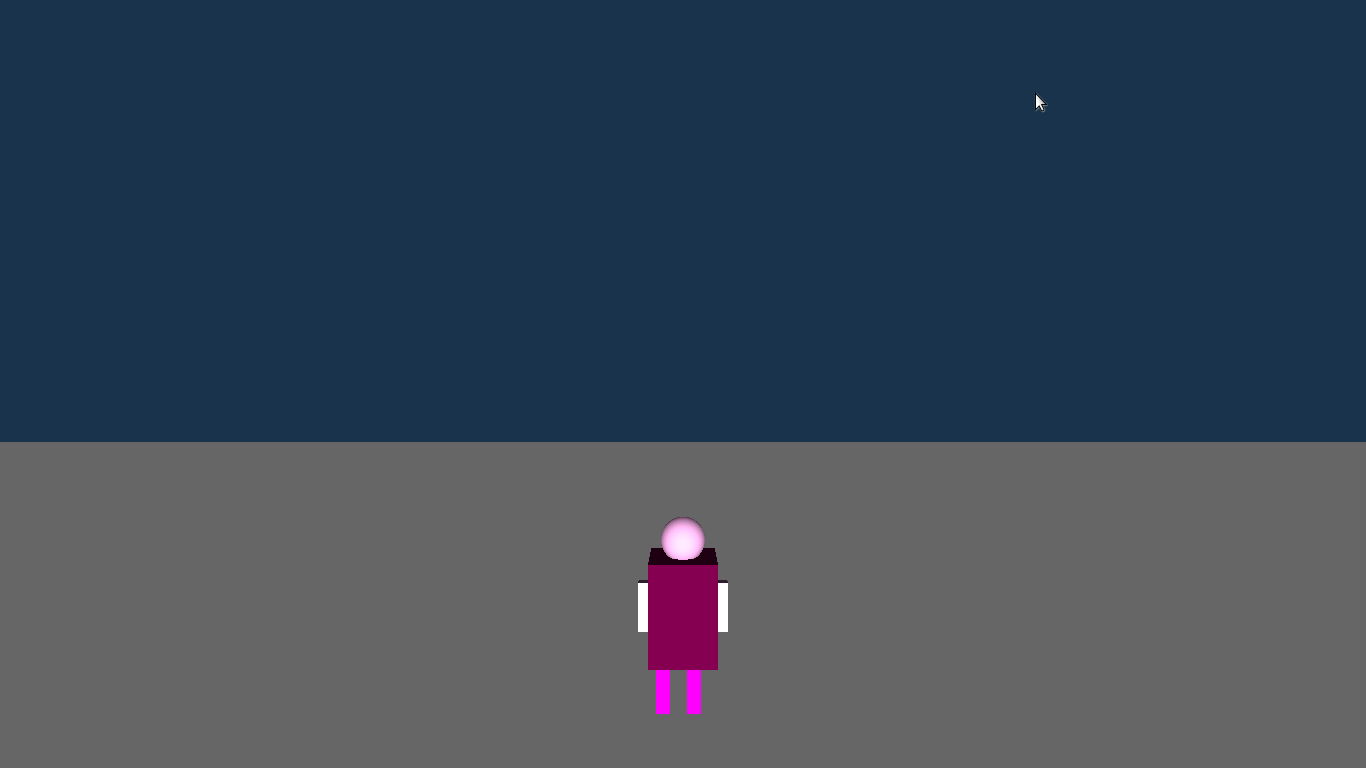
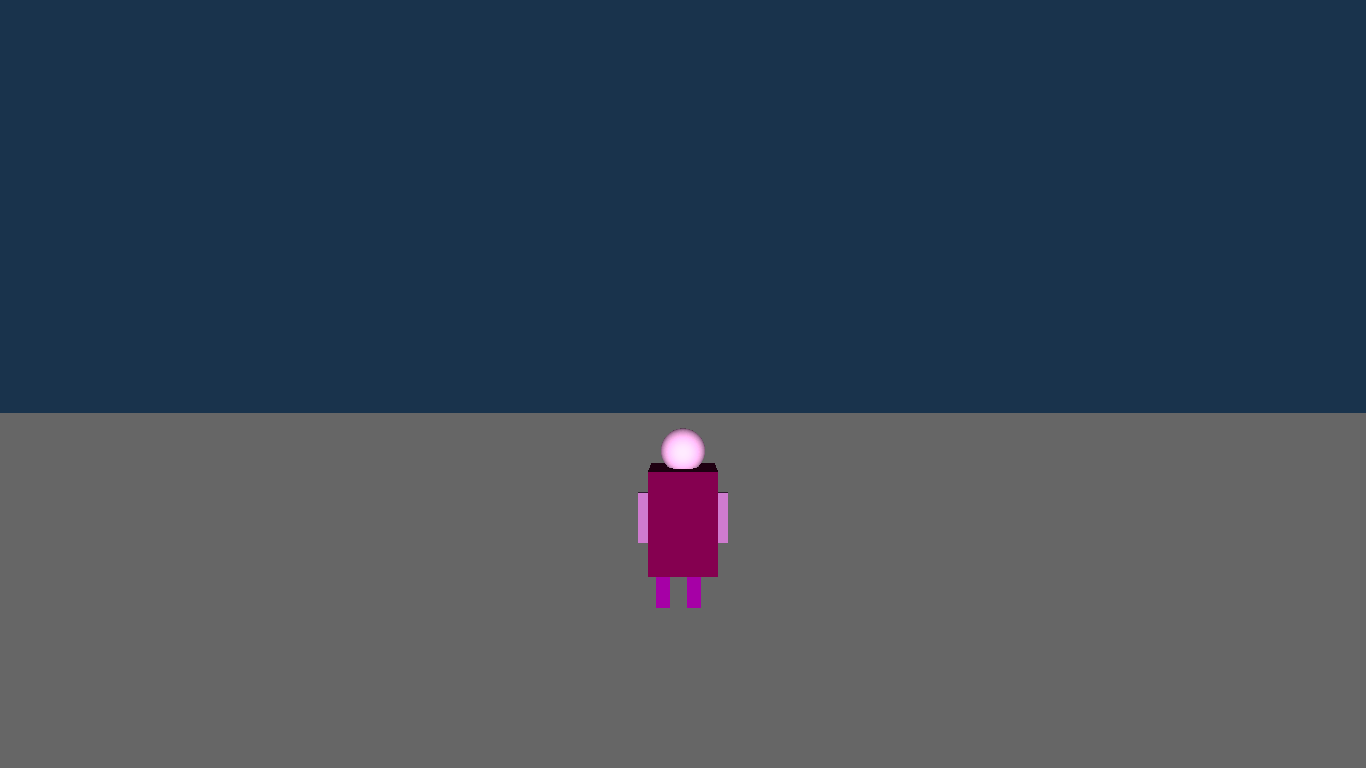
Razdvojene deklaracije svih potrebnih funkcija i promenljivih u novi fajl (function.h), animirano kretanje coveka

Changed region(s): [[0.0, 0.5312, 1.0, 0.9375], [0.7379, 0.125, 0.7687, 0.1562]]

diff --git a/main.c b/main.c
@@ -1,26 +1,13 @@
 #include <GL/glut.h>
+#include <stdio.h>
 #include <stdlib.h>
+#include <math.h>
+#include <time.h>
+#include <string.h>
+#include <stdbool.h>
 #include "function.h"
 
-static int window_width, window_height;
-
-static void on_timer(int value);
-static void on_keyboard(unsigned char key, int x, int y);
-static void on_reshape(int width, int height);
-static void on_display(void);
-
 int main(int argc, char **argv){
-   /* Ambijentalna boja svetla. */
-    GLfloat light_ambient[] = { 0, 0, 0, 1 };
-
-    /* Difuzna boja svetla. */
-    GLfloat light_diffuse[] = { 1, 1, 1, 1 };
-
-    /* Spekularna boja svetla. */
-    GLfloat light_specular[] = { 1, 1, 1, 1 };
-
-    /* Ambijentalno osvetljenje scene. */
-    GLfloat model_ambient[] = { 0.3, 0.3, 0.3, 1 };
    
     /*Inicijalizacija*/
     glutInit(&argc, argv);
@@ -30,41 +17,51 @@ int main(int argc, char **argv){
     glutInitWindowSize(800, 800);
     glutInitWindowPosition(100, 100);
     glutCreateWindow("Elimination");
+    glutFullScreen();
   
-    /*Pozivanje callback funkcija*/
+    /*Pozivanje funkcija za obradu dogadjaja*/
     glutKeyboardFunc(on_keyboard);
+    glutKeyboardUpFunc(on_keyboard_up);
     glutReshapeFunc(on_reshape);
     glutDisplayFunc(on_display);
   
     /*OpenGL inicijalizacija*/
     glEnable(GL_DEPTH_TEST);
+    glShadeModel(GL_SMOOTH);
+    glEnable(GL_NORMALIZE);
     glEnable(GL_COLOR_MATERIAL);
-    glClearColor(0.10,0.20,0.30, 0);
-  
-    /*Ukljucivanje svetla, i osvetljavanje scene*/
-    glEnable(GL_LIGHTING);
-    glEnable(GL_LIGHT0);
-    glLightfv(GL_LIGHT0, GL_AMBIENT, light_ambient);
-    glLightfv(GL_LIGHT0, GL_DIFFUSE, light_diffuse);
-    glLightfv(GL_LIGHT0, GL_SPECULAR, light_specular);
-    glLightModelfv(GL_LIGHT_MODEL_AMBIENT, model_ambient);
 
+    /*boja pozadine*/
+    glClearColor(0.10,0.20,0.30, 0);
 
     x_position=0;
-    y_position=-1;
+    y_position=-0.6;
     z_position=0;
+    man_radius=0.1;
+    man_movement=0.05;
 
-    glutFullScreen();
+    left=-3;
+    right=3;
+
+    animation_ongoing=0;
+
+    player_moving = false;
+    left_pressed = false;
+    right_pressed = false;
+
     glutMainLoop();
 return 0;
 }
 
-static void on_reshape(int width, int height){
+void on_reshape(int width, int height){
+    /*Podesava se sirina i visina*/
     window_width=width;
     window_height=height;
     
+    /*Podesava se viewport*/
     glViewport(0,0,window_width, window_height);
     
+    /*Podesava se projekcija*/
     glMatrixMode(GL_PROJECTION);
     glLoadIdentity();
     gluPerspective(60,
@@ -73,54 +70,24 @@ static void on_reshape(int width, int height){
     
 }
 
-static void on_display(void){
+void on_display(void){
 
-   /* Ambijentalna boja svetla. */
-    GLfloat light_ambient[] = { 0.0, 0.0, 0.0, 1 };
-
-   /* Difuzna boja svetla. */
-    GLfloat light_diffuse[] = { 1, 1, 1, 1 };
-
-    /* Spekularna boja svetla. */
-    GLfloat light_specular[] = { 0.3, 0.3, 0.3, 1 };
-
-    /* Koeficijenti ambijentalne refleksije materijala. */
-    GLfloat ambient_coeffs[] = { 0.1, 0.1, 0.1, 1 };
-
-    /* Koeficijenti difuzne refleksije materijala. */
-    GLfloat diffuse_coeffs[] = { 0.0, 0.5, 0.8, 1 };
-
-    /* Koeficijenti spekularne refleksije materijala. */
-    GLfloat specular_coeffs[] = { 0, 0, 0, 1 };
-
-    /* Koeficijent glatkosti materijala. */
-    GLfloat shininess = 15;
-    
     glClear(GL_COLOR_BUFFER_BIT | GL_DEPTH_BUFFER_BIT); 
  
     glMatrixMode(GL_MODELVIEW);
     glLoadIdentity();
     gluLookAt(0, 0, 3, 0, 0, 0, 0, 1, 0);
  
-    /* Ukljucuje se osvjetljenje i podesavaju parametri svetla. */
-    glEnable(GL_LIGHTING);
-    glEnable(GL_LIGHT0);
-    glLightfv(GL_LIGHT0, GL_AMBIENT, light_ambient);
-    glLightfv(GL_LIGHT0, GL_DIFFUSE, light_diffuse);
-    glLightfv(GL_LIGHT0, GL_SPECULAR, light_specular);
+    glPushMatrix();
+        glTranslatef(x_position, y_position,z_position);
+        drawMan();
+    glPopMatrix();
 
-    /* Podesavaju se parametri materijala. */
-    glMaterialfv(GL_FRONT, GL_AMBIENT, ambient_coeffs);
-    glMaterialfv(GL_FRONT, GL_DIFFUSE, diffuse_coeffs);
-    glMaterialfv(GL_FRONT, GL_SPECULAR, specular_coeffs);
-    glMaterialf(GL_FRONT, GL_SHININESS, shininess);
-    
-    glTranslatef(x_position, y_position,z_position);
-    drawMan();
-    
     glDisable(GL_LIGHTING);
-    drawGround();
-    
+    glPushMatrix();
+        drawGround();
+    glPopMatrix();
+
        /*Koordinatni sistem
         glBegin(GL_LINES);
         glColor3f(1,0,0);
@@ -145,11 +112,88 @@ static void on_display(void){
     glutSwapBuffers();
 }
 
-static void on_keyboard(unsigned char key, int x, int y){
-   
+void on_keyboard(unsigned char key, int x, int y){
+
     switch(key){
        case 27:
          exit(0);
          break;
+       case 'g':
+       case 'G':
+          if(!running){
+            glutDisplayFunc(on_display);
+            glutTimerFunc(TIMER_INTERVAL, on_timer, TIMER_ID);
+            glutTimerFunc(0, on_timer, TIMER_ANIMATION);
+            running=true;
+           }
+          break;
+     case 'a':
+     case 'A':
+        left_pressed = true;
+
+        if(x_position - man_movement <= (left + man_radius *2.5 ))
+          x_position=left + man_radius * 2.5;
+        else{
+          x_position -=man_movement;
+        }
+
+        animation_ongoing = 1;
+         break;
+     case 'd':
+     case 'D':
+        right_pressed = true;
+        animation_ongoing = 1;
+
+        if(x_position + man_movement >= (right - man_radius * 2.5))
+        x_position = right - man_radius *2.5;
+        else{
+          x_position +=man_movement;
+        }
+        break;
+    default:
+        break;
+    }
+}
+
+void on_keyboard_up(unsigned char key, int x, int y) {
+  switch(key){
+   case 'a':
+   case 'A':
+      left_pressed = false;
+      animation_ongoing = 0;
+       break;
+   case 'd':
+   case 'D':
+     right_pressed = false;
+     animation_ongoing = 0;
+      break;
+  default:
+      break;
+  }
+}
+
+void on_timer(int value)
+{
+    if (value != TIMER_ID && value != TIMER_ANIMATION)
+        return;
+
+    if(value == TIMER_ID) {
+      glutPostRedisplay();
+     
+      if (running){
+        glutTimerFunc(TIMER_INTERVAL, on_timer, TIMER_ID);
+      }
+    }else if(value == TIMER_ANIMATION) {
+
+      if(animation_ongoing == 1) {
+        animation_parameter += 0.1f;
+      } else {
+        animation_parameter = 0;
+      }
+      glutPostRedisplay();
+
+      if (running){
+        glutTimerFunc(TIMER_INTERVAL, on_timer, TIMER_ANIMATION);
+      }
     }
 }

diff --git a/function.h b/function.h
@@ -1,10 +1,45 @@
 #ifndef _FUNCTION_H
 #define _FUNCTION_H
 
-void drawMan(void);
-void drawGround(void);
+#include <stdlib.h>
+#include <stdio.h>
+#include <GL/glut.h>
+#include <time.h>
+#include <string.h>
+#include <math.h>
+#include <stdbool.h>
+
+#define TIMER_ID 0
+#define TIMER_ANIMATION 2
+#define TIMER_INTERVAL 20
+
+/*Deklaracije callback funkcija*/
+extern void on_display(void);
+extern void on_reshape(int width, int height);
+extern void on_keyboard(unsigned char key, int x, int y);
+extern void on_keyboard_up(unsigned char key, int x, int y);
+extern void on_timer(int value);
+
+extern void drawMan();
+extern void drawGround();
+
+int window_width, window_height;
+
+/*Ivice do kojih coveculjak moze da se krece*
+Kasnije ce name koristiti za postavljanje tekstura*/
+double left, right;
 
 /*Promenljive za polozaj coveka*/
 double x_position, y_position, z_position;
+double man_radius;
+double man_movement;
+bool player_moving;
+bool left_pressed;
+bool right_pressed;
+
+/*Promenljive koje sluze za informacije o igri*/
+int animation_ongoing;
+float animation_parameter;
+bool running;
 
 #endif

diff --git a/draw.c b/draw.c
@@ -2,6 +2,11 @@
 #include "function.h"
 
 void drawMan(void){
+    if(left_pressed)
+	    	glRotatef(-90, 0, 1, 0);
+	  else if(right_pressed)
+	  	  glRotatef(90, 0, 1, 0);
+    
     glShadeModel(GL_FLAT);
       /*glava*/
     glPushMatrix();
@@ -39,13 +44,17 @@ void drawMan(void){
     glColor3f(0.623,0.372,0.623);
     /*leva ruka*/
      glPushMatrix();
-         glTranslatef(-0.18,0,0);
+         glTranslatef(-0.18, 0.11, 0);
+	       glRotatef(90*sin(animation_parameter), 1, 0, 0);
+	       glTranslatef(0, -0.11f, 0);
          glScalef(0.25, 1.3, 0.25);
          glutSolidCube(0.17);
       glPopMatrix();
  /*desna ruka*/
    glPushMatrix();
-       glTranslatef(0.18,0,0);
+       glTranslatef(0.18, 0.11 ,0);
+	     glRotatef(-90*sin(animation_parameter), 1, 0, 0);
+	     glTranslatef(0, -0.11f, 0);
        glScalef(0.25, 1.3, 0.25);
        glutSolidCube(0.17);
    glPopMatrix();
